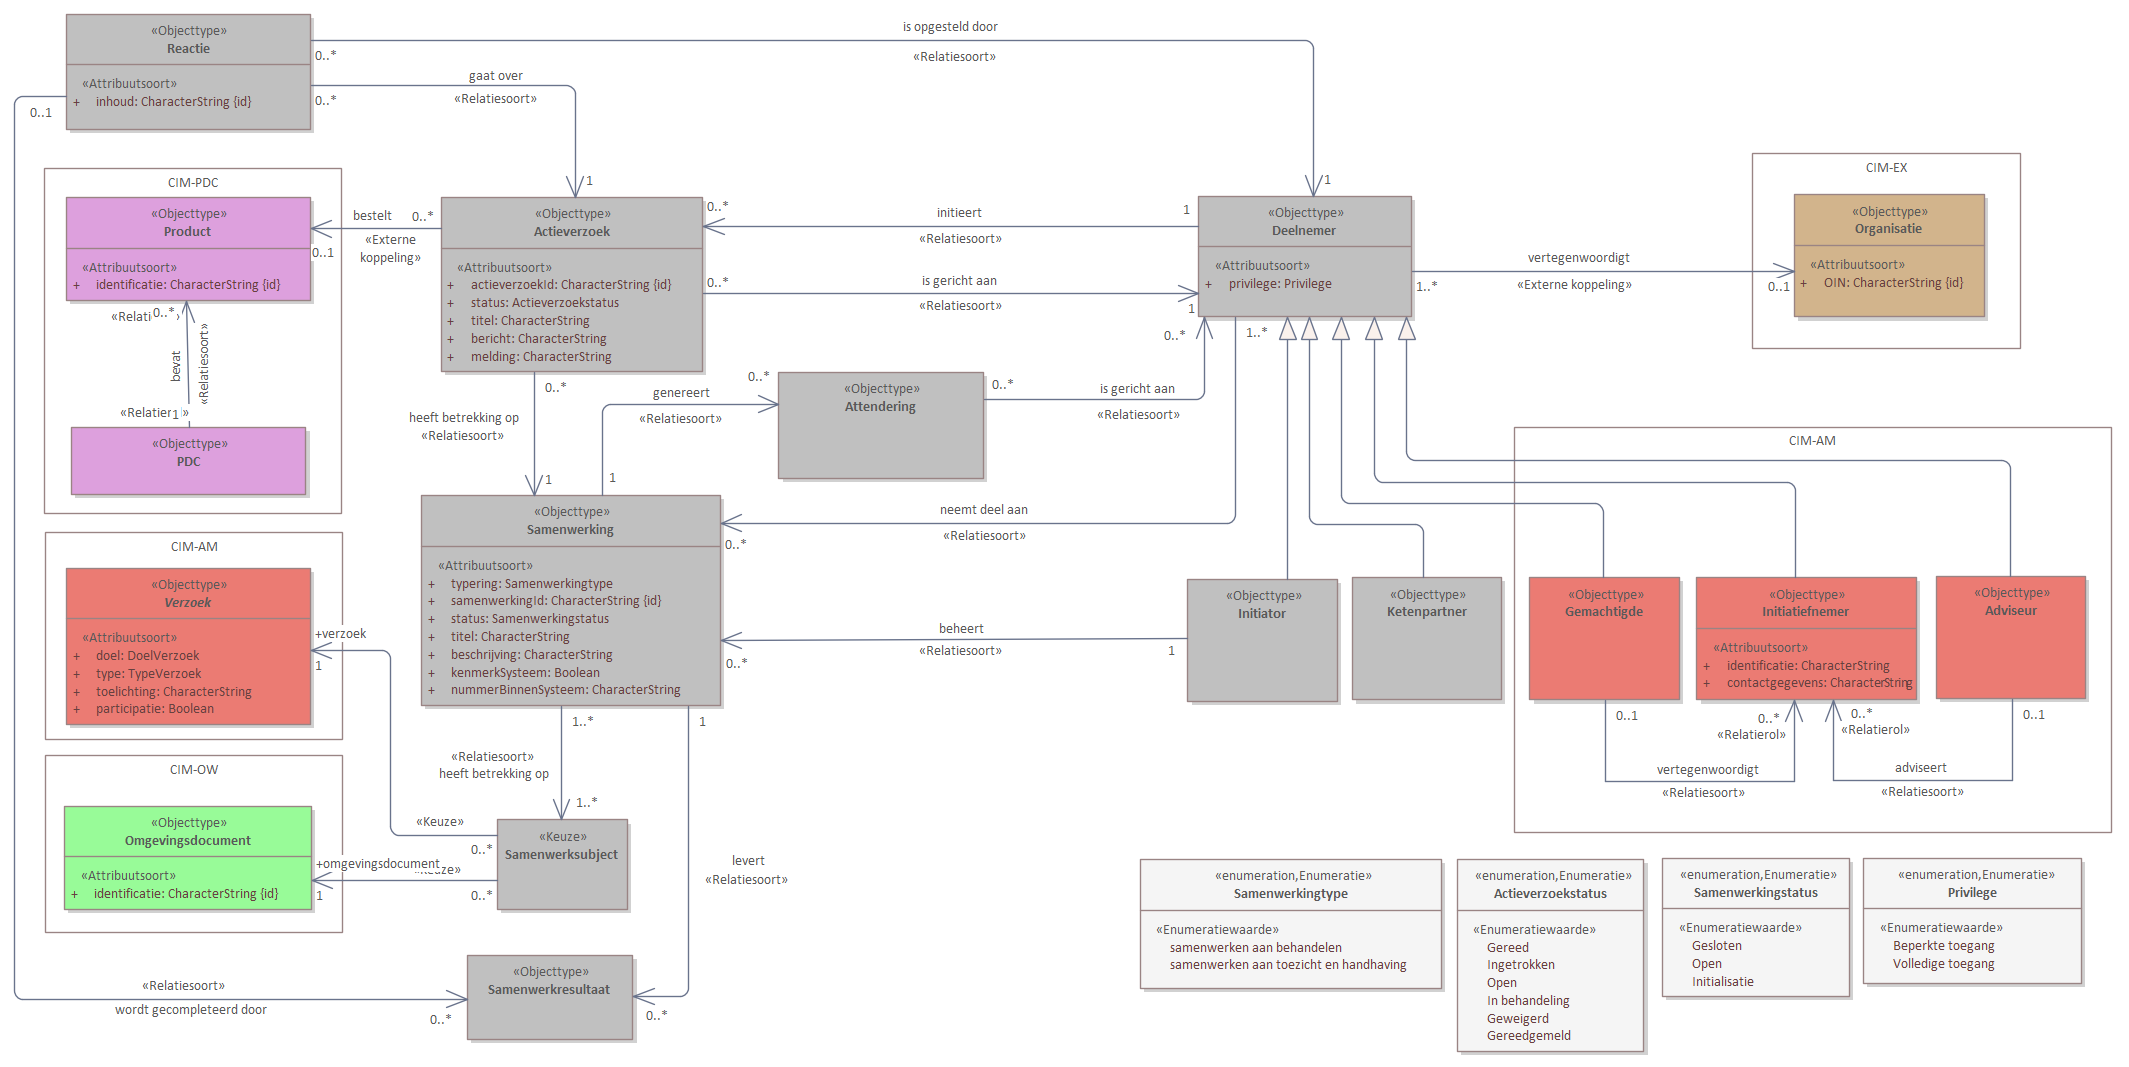
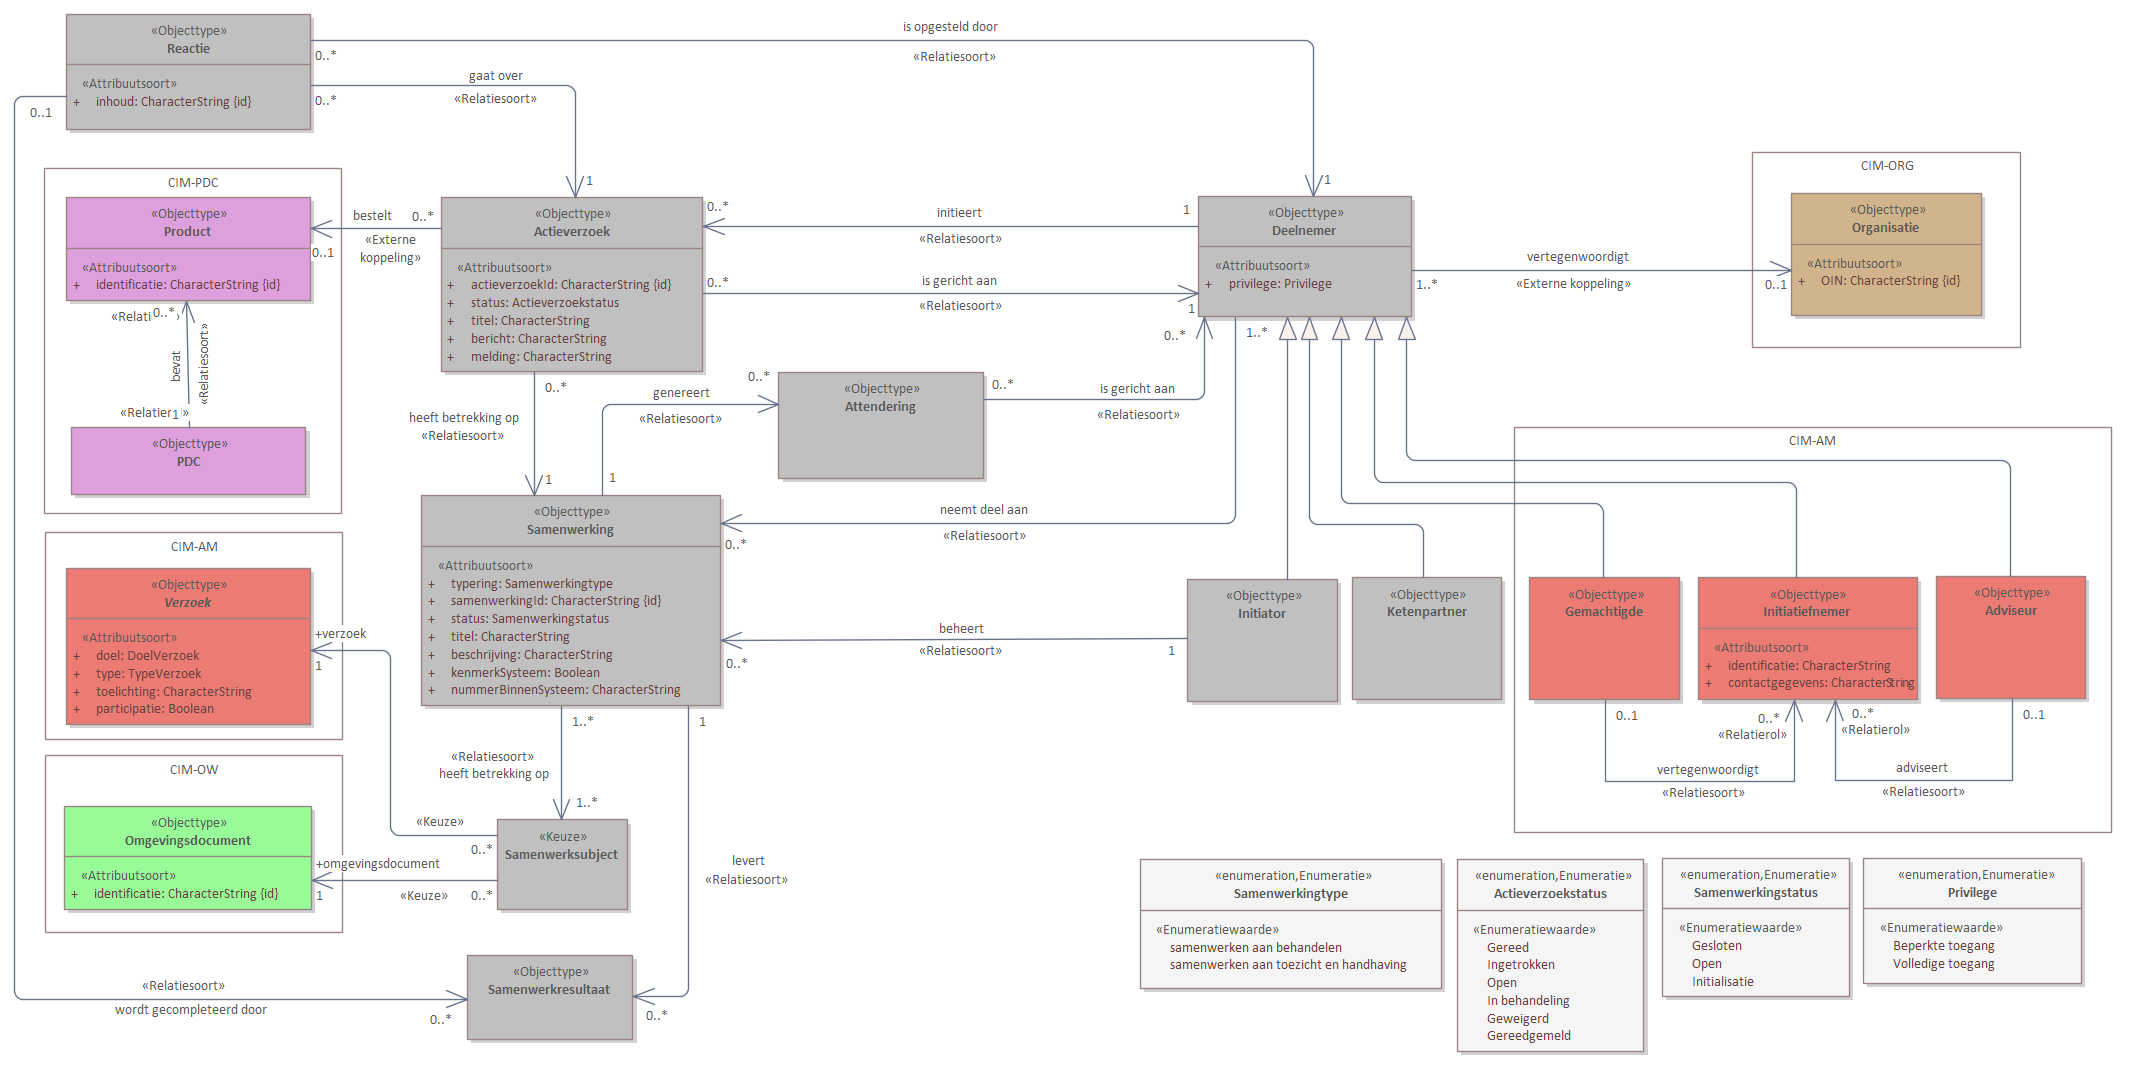
MIMCM-CIM-SWF-1.0-0-20230101-20240705-120229

diff --git a/data/CIM-SWF-cat.respec.html b/data/CIM-SWF-cat.respec.html
@@ -1,7 +1,7 @@
 
 <!DOCTYPE HTML><section id="cat" class="normative">
    <h2>Gegevensdefinitie</h2>
-   <!--MIMCM-CIM-SWF-1.0-0-20230101-20240606-100404 imvertor Nightly-build.14-->
+   <!--MIMCM-CIM-SWF-1.0-0-20230101-20240705-120229 imvertor Nightly-build.14-->
    <section id="EAID_148B391E_CCDB_471c_A289_54DA7F6CA2B1">
       <h3>   Context - overzicht</h3>
       <div class="imageinfo overview">
@@ -41,7 +41,7 @@
                   <td>
                      
                      
-                     <p>Digitaal artefact dat ontstaat tijdens de samenwerking,, of resulteert als uitkomst
+                     <p>Digitaal artefact dat ontstaat tijdens de samenwerking, of resulteert als uitkomst
                         van een samenwerking, en dat wordt bewaard in het samenwerkdossier.</p>
                      
                      </td>
@@ -1123,7 +1123,7 @@
                            </td>
                      </tr>
                      <tr>
-                        <th>Indicatie kardinaliteit</th>
+                        <th>Kardinaliteit</th>
                         <td>0 .. *</td>
                      </tr>
                   </tbody>
@@ -1152,7 +1152,7 @@
                            </td>
                      </tr>
                      <tr>
-                        <th>Indicatie kardinaliteit</th>
+                        <th>Kardinaliteit</th>
                         <td>1</td>
                      </tr>
                      <tr>
@@ -1190,7 +1190,7 @@
                            </td>
                      </tr>
                      <tr>
-                        <th>Indicatie kardinaliteit</th>
+                        <th>Kardinaliteit</th>
                         <td>0 .. *</td>
                      </tr>
                   </tbody>
@@ -1216,7 +1216,7 @@
                            </td>
                      </tr>
                      <tr>
-                        <th>Indicatie kardinaliteit</th>
+                        <th>Kardinaliteit</th>
                         <td>1</td>
                      </tr>
                   </tbody>
@@ -1242,7 +1242,7 @@
                            </td>
                      </tr>
                      <tr>
-                        <th>Indicatie kardinaliteit</th>
+                        <th>Kardinaliteit</th>
                         <td>1</td>
                      </tr>
                   </tbody>
@@ -1280,7 +1280,7 @@
                            </td>
                      </tr>
                      <tr>
-                        <th>Indicatie kardinaliteit</th>
+                        <th>Kardinaliteit</th>
                         <td>1</td>
                      </tr>
                      <tr>
@@ -1326,7 +1326,7 @@
                            </td>
                      </tr>
                      <tr>
-                        <th>Indicatie kardinaliteit</th>
+                        <th>Kardinaliteit</th>
                         <td>1</td>
                      </tr>
                      <tr>
@@ -1372,7 +1372,7 @@
                            </td>
                      </tr>
                      <tr>
-                        <th>Indicatie kardinaliteit</th>
+                        <th>Kardinaliteit</th>
                         <td>1</td>
                      </tr>
                      <tr>
@@ -1418,7 +1418,7 @@
                            </td>
                      </tr>
                      <tr>
-                        <th>Indicatie kardinaliteit</th>
+                        <th>Kardinaliteit</th>
                         <td>1</td>
                      </tr>
                      <tr>
@@ -1465,7 +1465,7 @@
                            </td>
                      </tr>
                      <tr>
-                        <th>Indicatie kardinaliteit</th>
+                        <th>Kardinaliteit</th>
                         <td>1</td>
                      </tr>
                      <tr>
@@ -1512,7 +1512,7 @@
                            </td>
                      </tr>
                      <tr>
-                        <th>Indicatie kardinaliteit</th>
+                        <th>Kardinaliteit</th>
                         <td>1</td>
                      </tr>
                      <tr>
@@ -1560,7 +1560,7 @@
                            </td>
                      </tr>
                      <tr>
-                        <th>Indicatie kardinaliteit</th>
+                        <th>Kardinaliteit</th>
                         <td>1</td>
                      </tr>
                      <tr>
@@ -1601,7 +1601,7 @@
                            </td>
                      </tr>
                      <tr>
-                        <th>Indicatie kardinaliteit</th>
+                        <th>Kardinaliteit</th>
                         <td>1 .. *</td>
                      </tr>
                   </tbody>
@@ -1627,7 +1627,7 @@
                            </td>
                      </tr>
                      <tr>
-                        <th>Indicatie kardinaliteit</th>
+                        <th>Kardinaliteit</th>
                         <td>0 .. *</td>
                      </tr>
                   </tbody>
@@ -1653,7 +1653,7 @@
                            </td>
                      </tr>
                      <tr>
-                        <th>Indicatie kardinaliteit</th>
+                        <th>Kardinaliteit</th>
                         <td>0 .. *</td>
                      </tr>
                   </tbody>
@@ -1692,7 +1692,7 @@
                            </td>
                      </tr>
                      <tr>
-                        <th>Indicatie kardinaliteit</th>
+                        <th>Kardinaliteit</th>
                         <td>1</td>
                      </tr>
                      <tr>
@@ -1751,7 +1751,7 @@
                            </td>
                      </tr>
                      <tr>
-                        <th>Indicatie kardinaliteit</th>
+                        <th>Kardinaliteit</th>
                         <td>0 .. *</td>
                      </tr>
                   </tbody>
@@ -1777,7 +1777,7 @@
                            </td>
                      </tr>
                      <tr>
-                        <th>Indicatie kardinaliteit</th>
+                        <th>Kardinaliteit</th>
                         <td>0 .. *</td>
                      </tr>
                   </tbody>
@@ -1815,7 +1815,7 @@
                            </td>
                      </tr>
                      <tr>
-                        <th>Indicatie kardinaliteit</th>
+                        <th>Kardinaliteit</th>
                         <td>1</td>
                      </tr>
                      <tr>
@@ -1861,7 +1861,7 @@
                            </td>
                      </tr>
                      <tr>
-                        <th>Indicatie kardinaliteit</th>
+                        <th>Kardinaliteit</th>
                         <td>1</td>
                      </tr>
                      <tr>
@@ -1908,7 +1908,7 @@
                            </td>
                      </tr>
                      <tr>
-                        <th>Indicatie kardinaliteit</th>
+                        <th>Kardinaliteit</th>
                         <td>1</td>
                      </tr>
                      <tr>
@@ -1955,7 +1955,7 @@
                            </td>
                      </tr>
                      <tr>
-                        <th>Indicatie kardinaliteit</th>
+                        <th>Kardinaliteit</th>
                         <td>1</td>
                      </tr>
                      <tr>
@@ -2001,7 +2001,7 @@
                            </td>
                      </tr>
                      <tr>
-                        <th>Indicatie kardinaliteit</th>
+                        <th>Kardinaliteit</th>
                         <td>1</td>
                      </tr>
                      <tr>
@@ -2060,7 +2060,7 @@
                            </td>
                      </tr>
                      <tr>
-                        <th>Indicatie kardinaliteit</th>
+                        <th>Kardinaliteit</th>
                         <td>1</td>
                      </tr>
                   </tbody>
@@ -2086,7 +2086,7 @@
                            </td>
                      </tr>
                      <tr>
-                        <th>Indicatie kardinaliteit</th>
+                        <th>Kardinaliteit</th>
                         <td>1</td>
                      </tr>
                   </tbody>
@@ -2117,7 +2117,7 @@
                            </td>
                      </tr>
                      <tr>
-                        <th>Indicatie kardinaliteit</th>
+                        <th>Kardinaliteit</th>
                         <td>0 .. *</td>
                      </tr>
                   </tbody>
@@ -2153,7 +2153,7 @@
                            </td>
                      </tr>
                      <tr>
-                        <th>Indicatie kardinaliteit</th>
+                        <th>Kardinaliteit</th>
                         <td>1</td>
                      </tr>
                   </tbody>
@@ -2179,7 +2179,7 @@
                            </td>
                      </tr>
                      <tr>
-                        <th>Indicatie kardinaliteit</th>
+                        <th>Kardinaliteit</th>
                         <td>1</td>
                      </tr>
                   </tbody>
@@ -2192,8 +2192,8 @@
       </section>
 </section>
 <section id="lis" class="normative">
-   <h2>Inhoud van waardenlijsten</h2>
-   <!--MIMCM-CIM-SWF-1.0-0-20230101-20240606-100404 imvertor Nightly-build.14-->
+   <h2>Inhoud van waardelijsten</h2>
+   <!--MIMCM-CIM-SWF-1.0-0-20230101-20240705-120229 imvertor Nightly-build.14-->
    <section id="detail_class_CIMSWF_Actieverzoekstatus">
       <h3>Enumeratie details  Actieverzoekstatus</h3>
       
